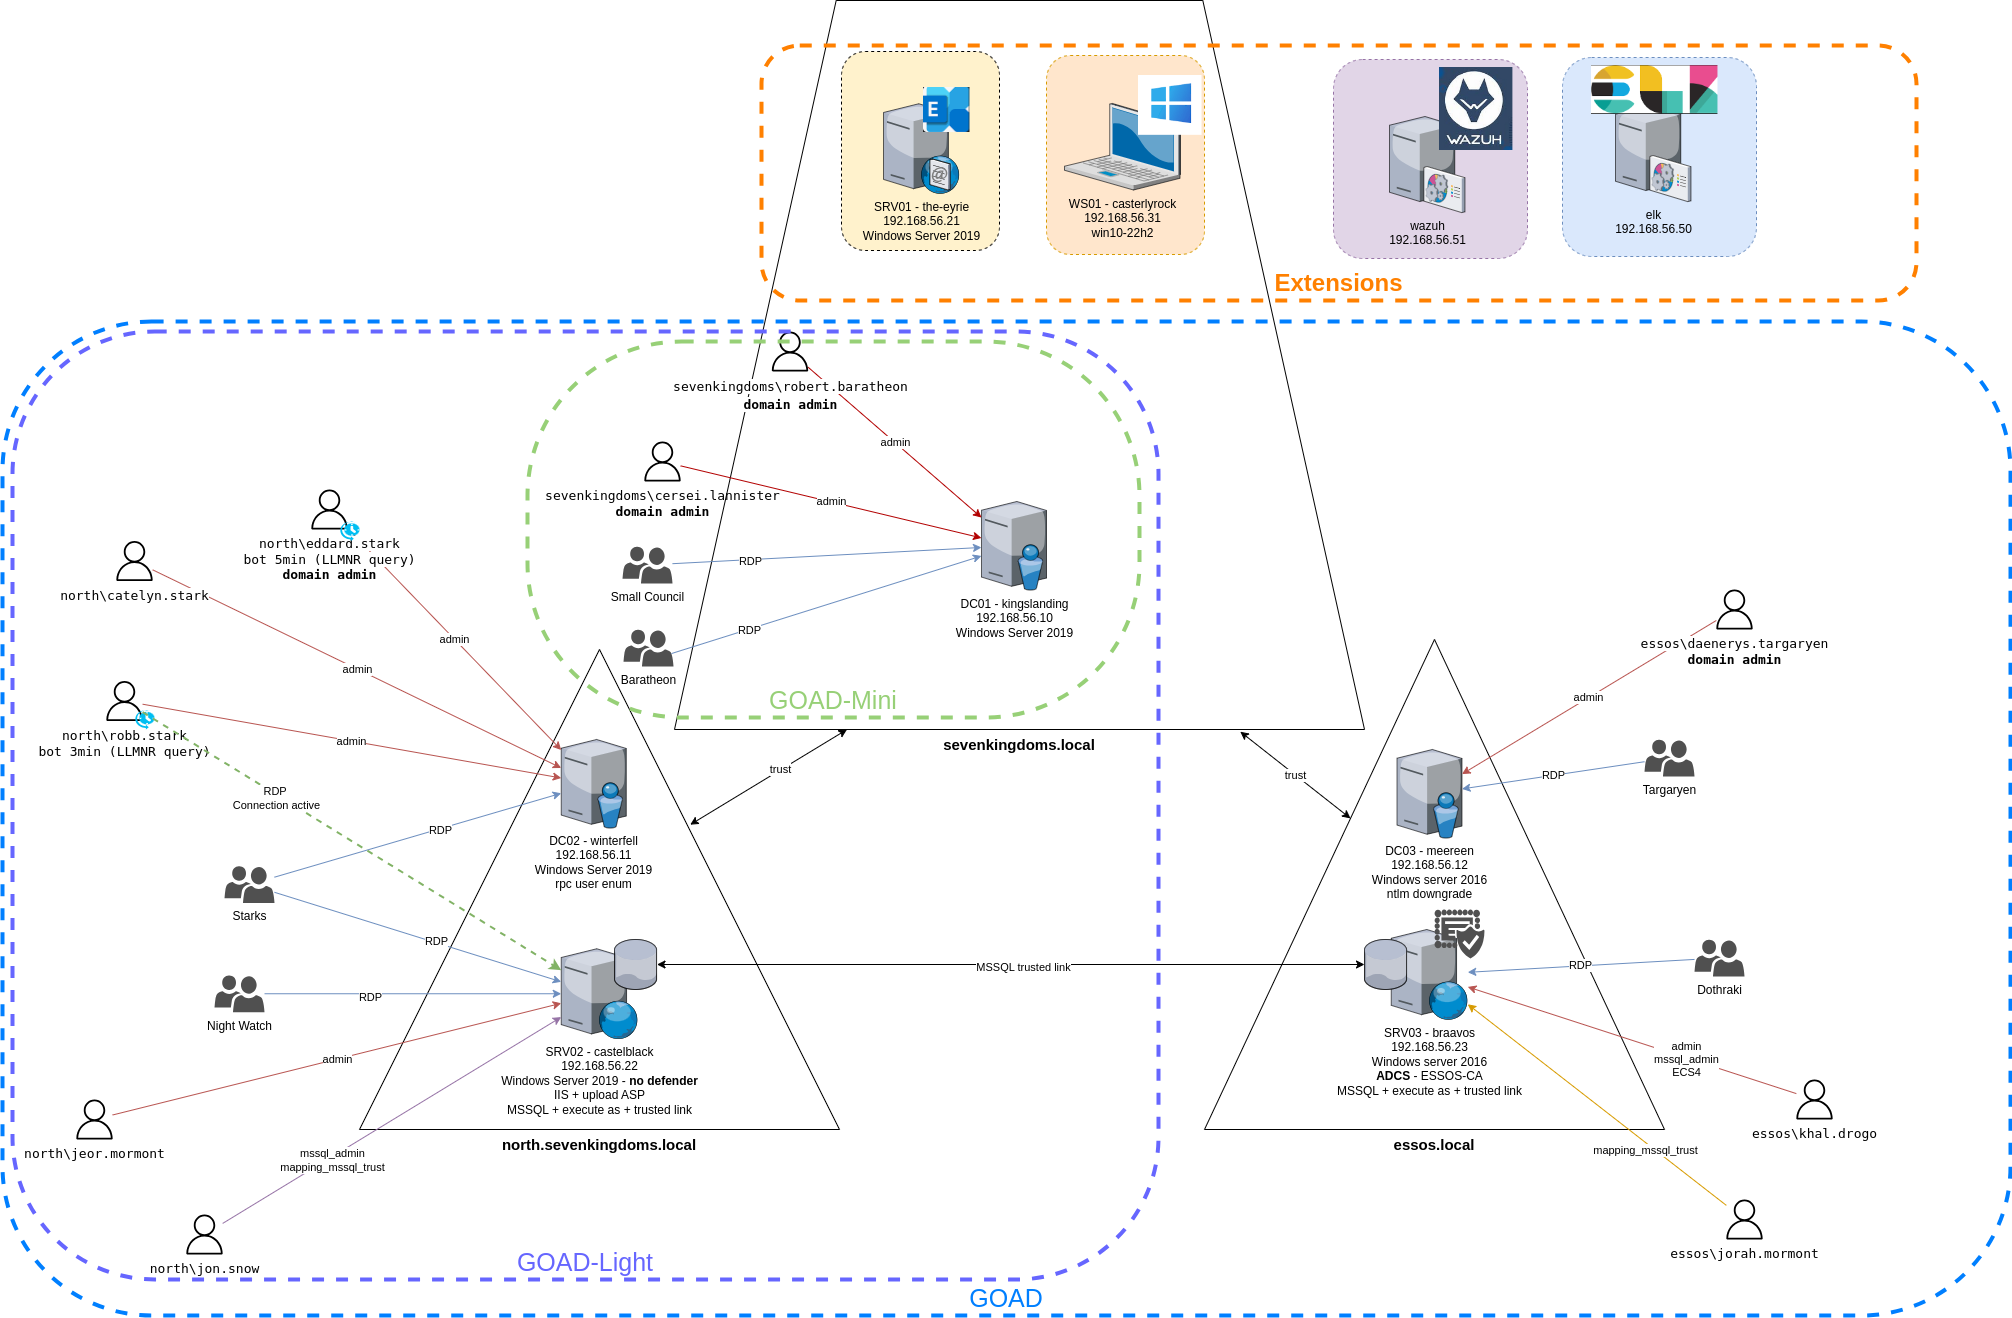
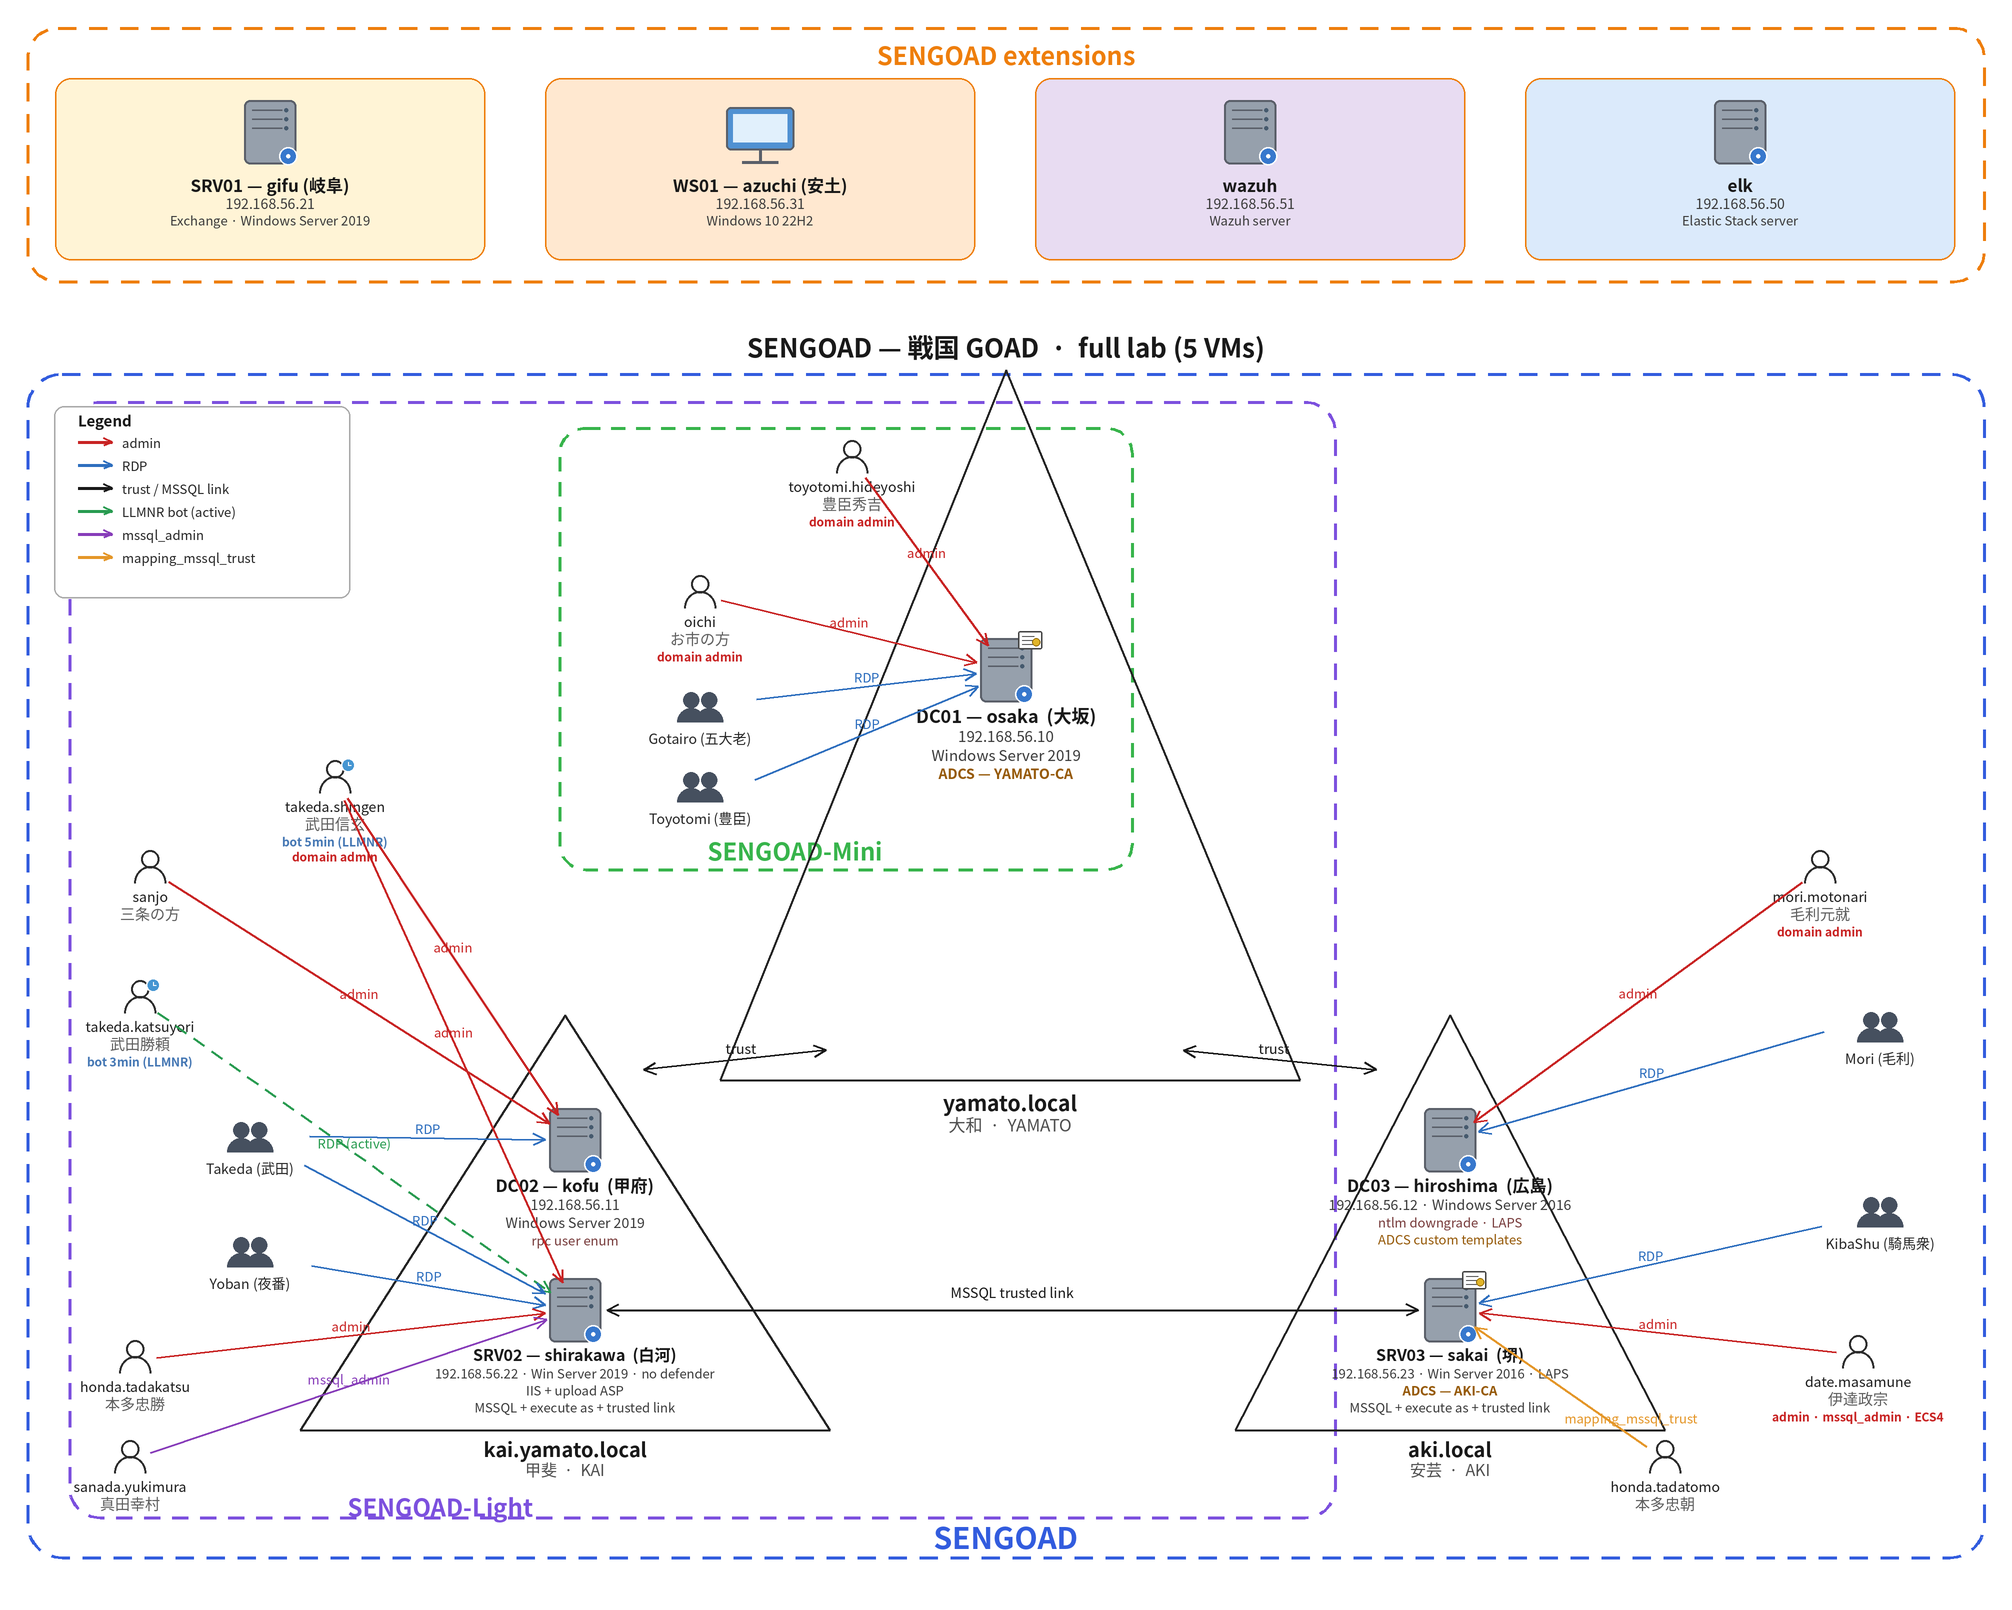
docs: update README images for SENGOAD naming

diff --git a/docs/img/diagram-SENGOAD-full.py b/docs/img/diagram-SENGOAD-full.py
@@ -1,10 +1,11 @@
 #!/usr/bin/env python3
-"""Render the SENGOAD full network diagram (5 VMs) — a Sengoku re-skin of GOAD's
-diagram-GOADv3-full.png, without the Extensions box.
+"""Render the SENGOAD full network diagram and lab-family overview.
 
-Editable source for docs/img/diagram-SENGOAD-full.png. Regenerate with:
+Editable source for docs/img/diagram-SENGOAD-full.png and the legacy
+diagram-GOADv3-full.png paths used by the README and MkDocs. Regenerate with:
     pip install pillow            # needs a CJK font (Noto Sans CJK JP)
     python3 docs/img/diagram-SENGOAD-full.py
+Set SENGOAD_FONT_DIR when the Noto Sans CJK files are installed elsewhere.
 Names follow docs/SENGOAD_mapping_EN.md and ad/SENGOAD/data/inventory.
 """
 import math
@@ -16,8 +17,9 @@ SS = 2  # supersample for crisp output
 img = Image.new("RGB", (W * SS, H * SS), "white")
 d = ImageDraw.Draw(img)
 
-NOTO = "/usr/share/fonts/opentype/noto/NotoSansCJK-Regular.ttc"
-NOTOB = "/usr/share/fonts/opentype/noto/NotoSansCJK-Bold.ttc"
+FONT_DIR = os.environ.get("SENGOAD_FONT_DIR", "/usr/share/fonts/opentype/noto")
+NOTO = os.path.join(FONT_DIR, "NotoSansCJK-Regular.ttc")
+NOTOB = os.path.join(FONT_DIR, "NotoSansCJK-Bold.ttc")
 _fc = {}
 def F(size, bold=False):
     key = (size, bold)
@@ -350,6 +352,63 @@ for i, (lab, c) in enumerate(items):
     arrowhead((lx, yy), (lx + 34, yy), c, 9)
     text(lx + 44, yy, lab, F(13), (40,40,40), anchor="lm")
 
+here = os.path.dirname(os.path.abspath(__file__))
 out = img.resize((W, H), Image.LANCZOS)
-out.save(os.path.join(os.path.dirname(os.path.abspath(__file__)), "diagram-SENGOAD-full.png"))
-print("saved", out.size)
+out.save(os.path.join(here, "diagram-SENGOAD-full.png"))
+
+# ===================================================================
+# LAB-FAMILY OVERVIEW WITH EXTENSIONS
+# ===================================================================
+# Keep the detailed 5-VM diagram above unchanged and add a compact extension
+# strip for the README/MkDocs overview. The legacy filename remains in place so
+# existing external links continue to work.
+EXT_H = 310
+overview = Image.new("RGB", (W * SS, (H + EXT_H) * SS), "white")
+overview.paste(img, (0, S(EXT_H)))
+img = overview
+d = ImageDraw.Draw(img)
+
+EXT = (238, 126, 12)
+
+def workstation(cx, cy):
+    """Simple workstation icon sized to match the server glyphs."""
+    d.rounded_rectangle(
+        [S(cx - 34), S(cy - 25), S(cx + 34), S(cy + 18)],
+        radius=S(5), fill=(80, 145, 210), outline=GREY, width=int(2 * SS)
+    )
+    d.rectangle([S(cx - 27), S(cy - 18), S(cx + 27), S(cy + 10)], fill=(225, 240, 252))
+    line((cx, cy + 18), (cx, cy + 30), GREY, 3)
+    line((cx - 18, cy + 30), (cx + 18, cy + 30), GREY, 3)
+
+def extension_card(cx, title, address, detail, fill, icon="server"):
+    x0, x1 = cx - 215, cx + 215
+    d.rounded_rectangle(
+        [S(x0), S(78), S(x1), S(260)],
+        radius=S(16), fill=fill, outline=EXT, width=int(1.5 * SS)
+    )
+    if icon == "workstation":
+        workstation(cx, 132)
+    else:
+        server(cx, 132)
+    block(cx, 176, [
+        (title, 17, True, BLACK),
+        (address, 14, False, (60, 60, 60)),
+        (detail, 13, False, (60, 60, 60)),
+    ], gap=3)
+
+dashed_rrect(28, 28, 1984, 282, EXT, w=3, r=30, dash=18, gap=13)
+text(1006, 54, "SENGOAD extensions", F(25, True), EXT, anchor="mm")
+extension_card(270, "SRV01 — gifu (岐阜)", "192.168.56.21", "Exchange · Windows Server 2019", (255, 244, 214))
+extension_card(760, "WS01 — azuchi (安土)", "192.168.56.31", "Windows 10 22H2", (255, 232, 208), "workstation")
+extension_card(1250, "wazuh", "192.168.56.51", "Wazuh server", (232, 220, 242))
+extension_card(1740, "elk", "192.168.56.50", "Elastic Stack server", (219, 234, 251))
+
+overview_out = img.resize((W, H + EXT_H), Image.LANCZOS)
+legacy_targets = [
+    os.path.join(here, "diagram-GOADv3-full.png"),
+    os.path.normpath(os.path.join(here, "..", "mkdocs", "docs", "img", "diagram-GOADv3-full.png")),
+]
+for target in legacy_targets:
+    overview_out.save(target)
+
+print("saved", out.size, "and", overview_out.size)

diff --git a/README.md b/README.md
@@ -29,16 +29,14 @@ The purpose of this lab is to give pentesters a vulnerable Active directory envi
 > This lab is extremely vulnerable, do not reuse recipe to build your environment and do not deploy this environment on internet without isolation (this is a recommendation, use it as your own risk).<br>
 > This repository was build for pentest practice.
 
-![goad_screenshot](./docs/img/goad_screenshot.png)
-
 ## Licenses
 This lab use free Windows VM only (180 days). After that delay enter a license on each server or rebuild all the lab (may be it's time for an update ;))
 
 ## Available labs
 
-- GOAD Lab family and extensions overview
+- SENGOAD Lab family and extensions overview
 <div align="center">
-<img alt="GOAD" width="800" src="./docs/img/diagram-GOADv3-full.png">
+<img alt="SENGOAD lab family and extensions overview" width="800" src="./docs/img/diagram-GOADv3-full.png">
 </div>
 
 - [SENGOAD](https://orange-cyberdefense.github.io/GOAD/labs/GOAD/) : 5 vms, 2 forests, 3 domains (full SENGOAD lab)

diff --git a/docs/mkdocs/docs/labs/index.md b/docs/mkdocs/docs/labs/index.md
@@ -1,12 +1,12 @@
 # Labs
 
 - Practice lab(s) :
-    - GOAD familly :
-        - [GOAD](GOAD.md) : 5 vms, 2 forests, 3 domains (full goad lab)
-        - [GOAD-Light](GOAD-Light.md) : 3 vms, 1 forest, 2 domains (smaller goad lab for those with a smaller pc)
-        - [GOAD-Mini](GOAD-Mini.md) : 1 vm, 1 domains (only sevenkingdoms.local, minimalist lab)
+    - SENGOAD family:
+        - [SENGOAD](GOAD.md) : 5 VMs, 2 forests, 3 domains (full SENGOAD lab)
+        - [SENGOAD-Light](GOAD-Light.md) : 3 VMs, 1 forest, 2 domains (smaller SENGOAD lab for those with a smaller PC)
+        - [SENGOAD-Mini](GOAD-Mini.md) : 1 VM, 1 domain (only yamato.local, minimalist lab)
 
-        ![GOADfull](../img/diagram-GOADv3-full.png)
+        ![SENGOAD lab family and extensions overview](../img/diagram-GOADv3-full.png)
    
     - [SCCM](SCCM.md) : 4 vms, 1 forest, 1 domain, with microsoft configuration manager installed
     ![SCCM overview](../img/SCCMLAB_overview.png)
